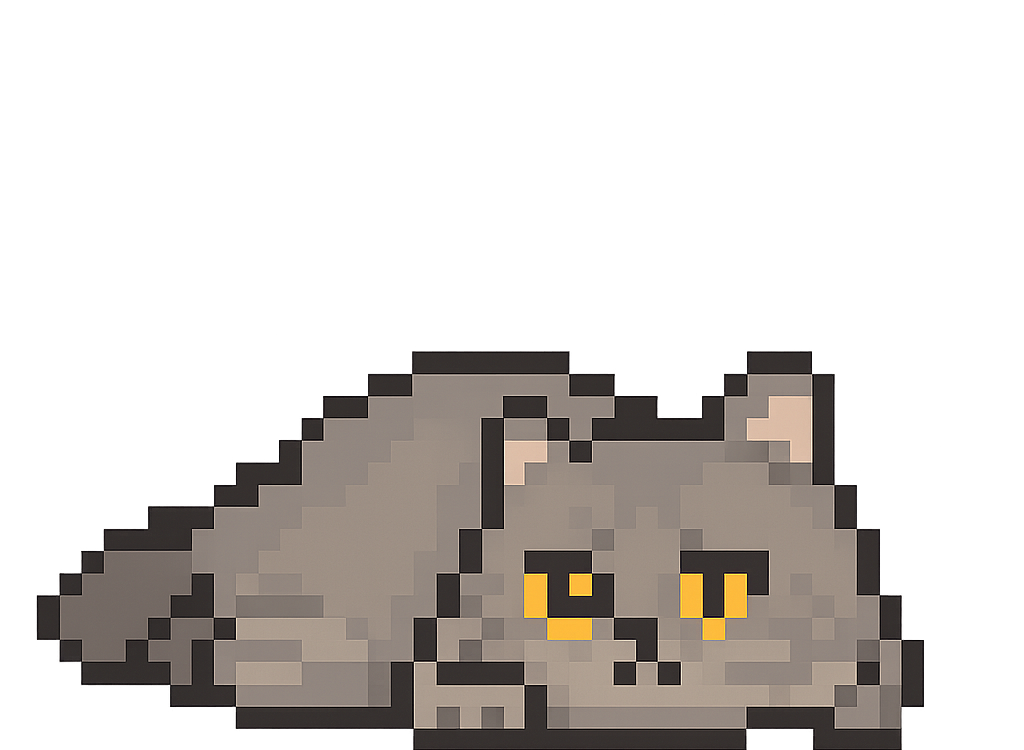
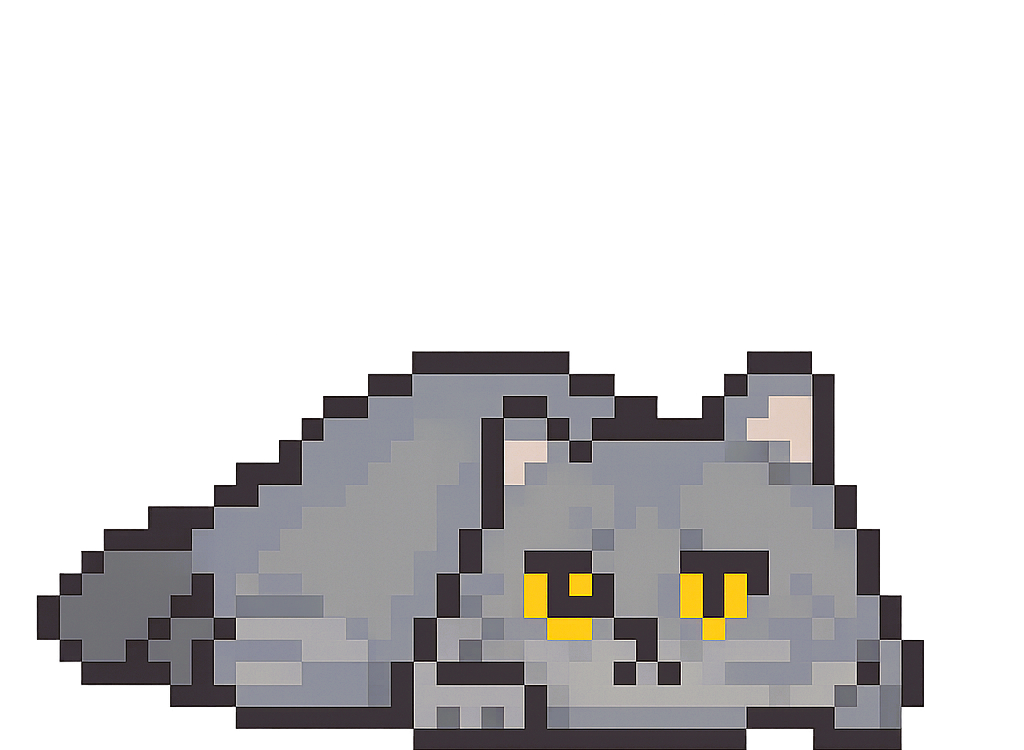
headersnoochange

Changed region(s): [[0.1875, 0.4907, 0.9062, 0.9813]]

diff --git a/components/Header.tsx b/components/Header.tsx
@@ -6,6 +6,7 @@ import { useState } from "react";
 
 export default function Header() {
   const [isMenuOpen, setIsMenuOpen] = useState(false);
+  const [isAlternateImage, setIsAlternateImage] = useState(false);
 
   return (
     <header className="fixed top-0 w-full bg-white/90 backdrop-blur-md z-50 border-b border-gray-100">
@@ -20,11 +21,15 @@ export default function Header() {
               className="w-10 h-10"
             />
             <Image
-              src="/headersnoo.png"
+              src={isAlternateImage ? "/headersnoo2.png" : "/headersnoo.png"}
               alt="85-Store"
               width={120}
               height={40}
-              className="h-10 w-auto"
+              className="h-10 w-auto cursor-pointer"
+              onClick={(e) => {
+                e.preventDefault();
+                setIsAlternateImage(!isAlternateImage);
+              }}
             />
           </Link>
 

diff --git a/next.config.ts b/next.config.ts
@@ -39,6 +39,9 @@ const nextConfig: NextConfig = {
         pathname: '/headersnoo.png',
       },
       {
+        pathname: '/headersnoo2.png',
+      },
+      {
         pathname: '/images/**',
       },
       {
